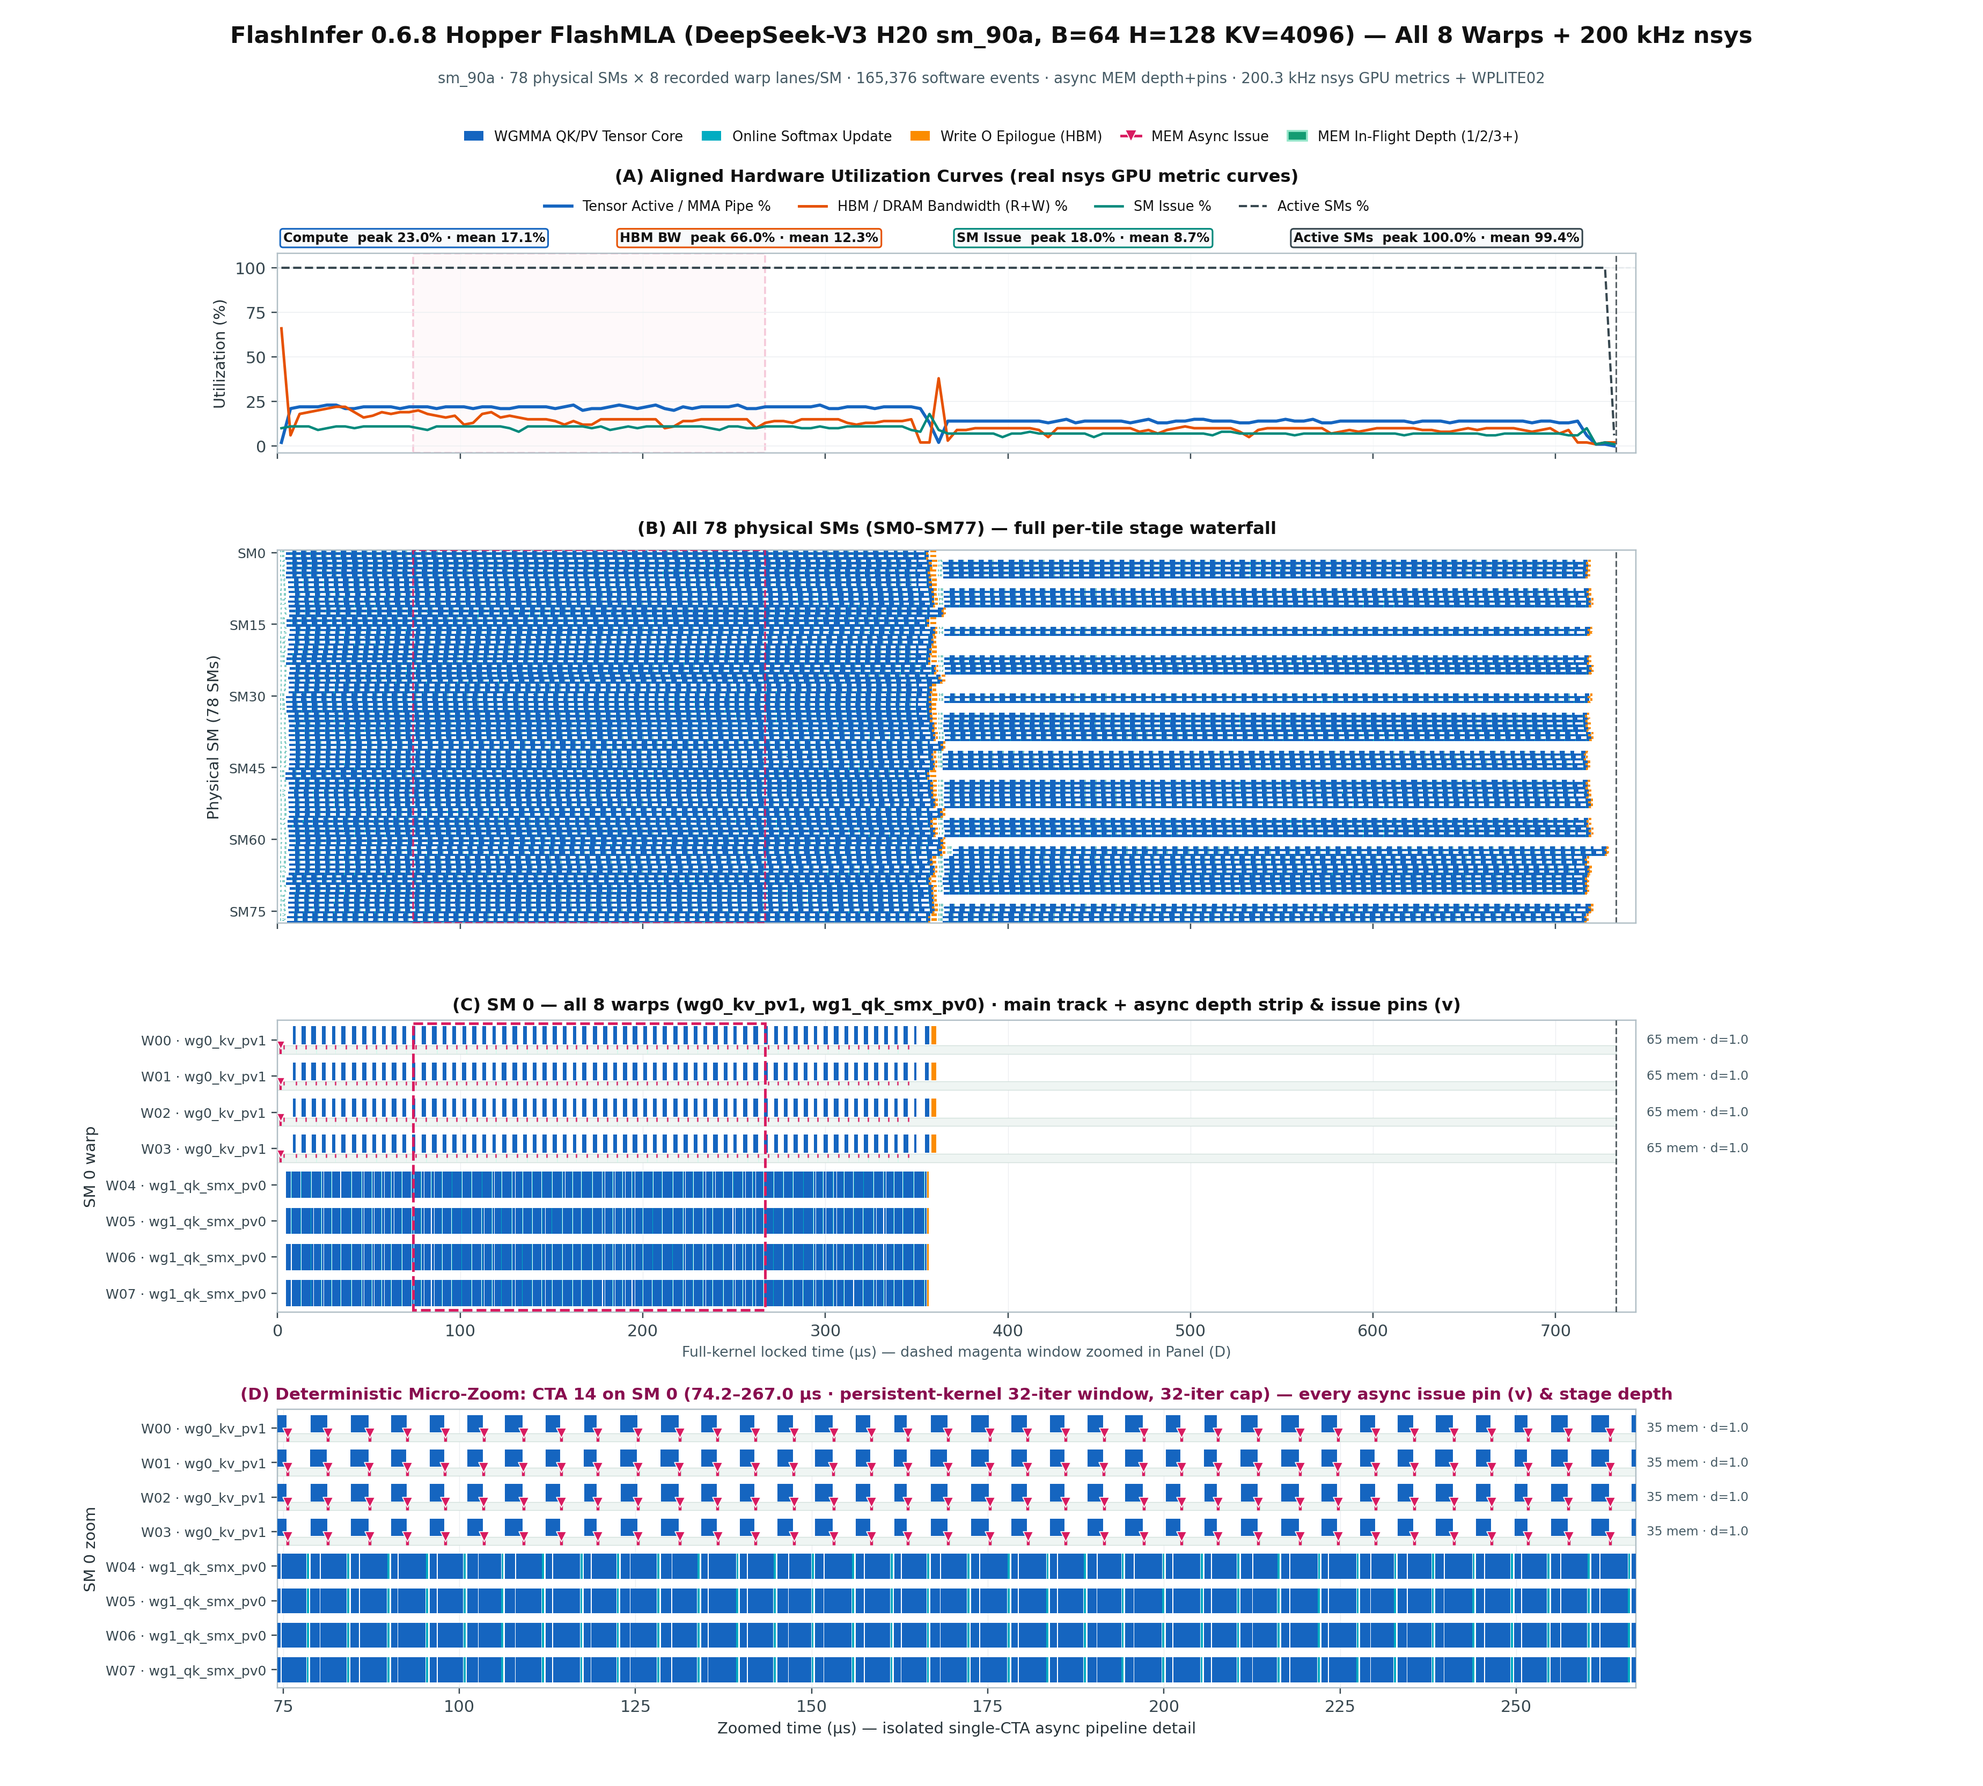
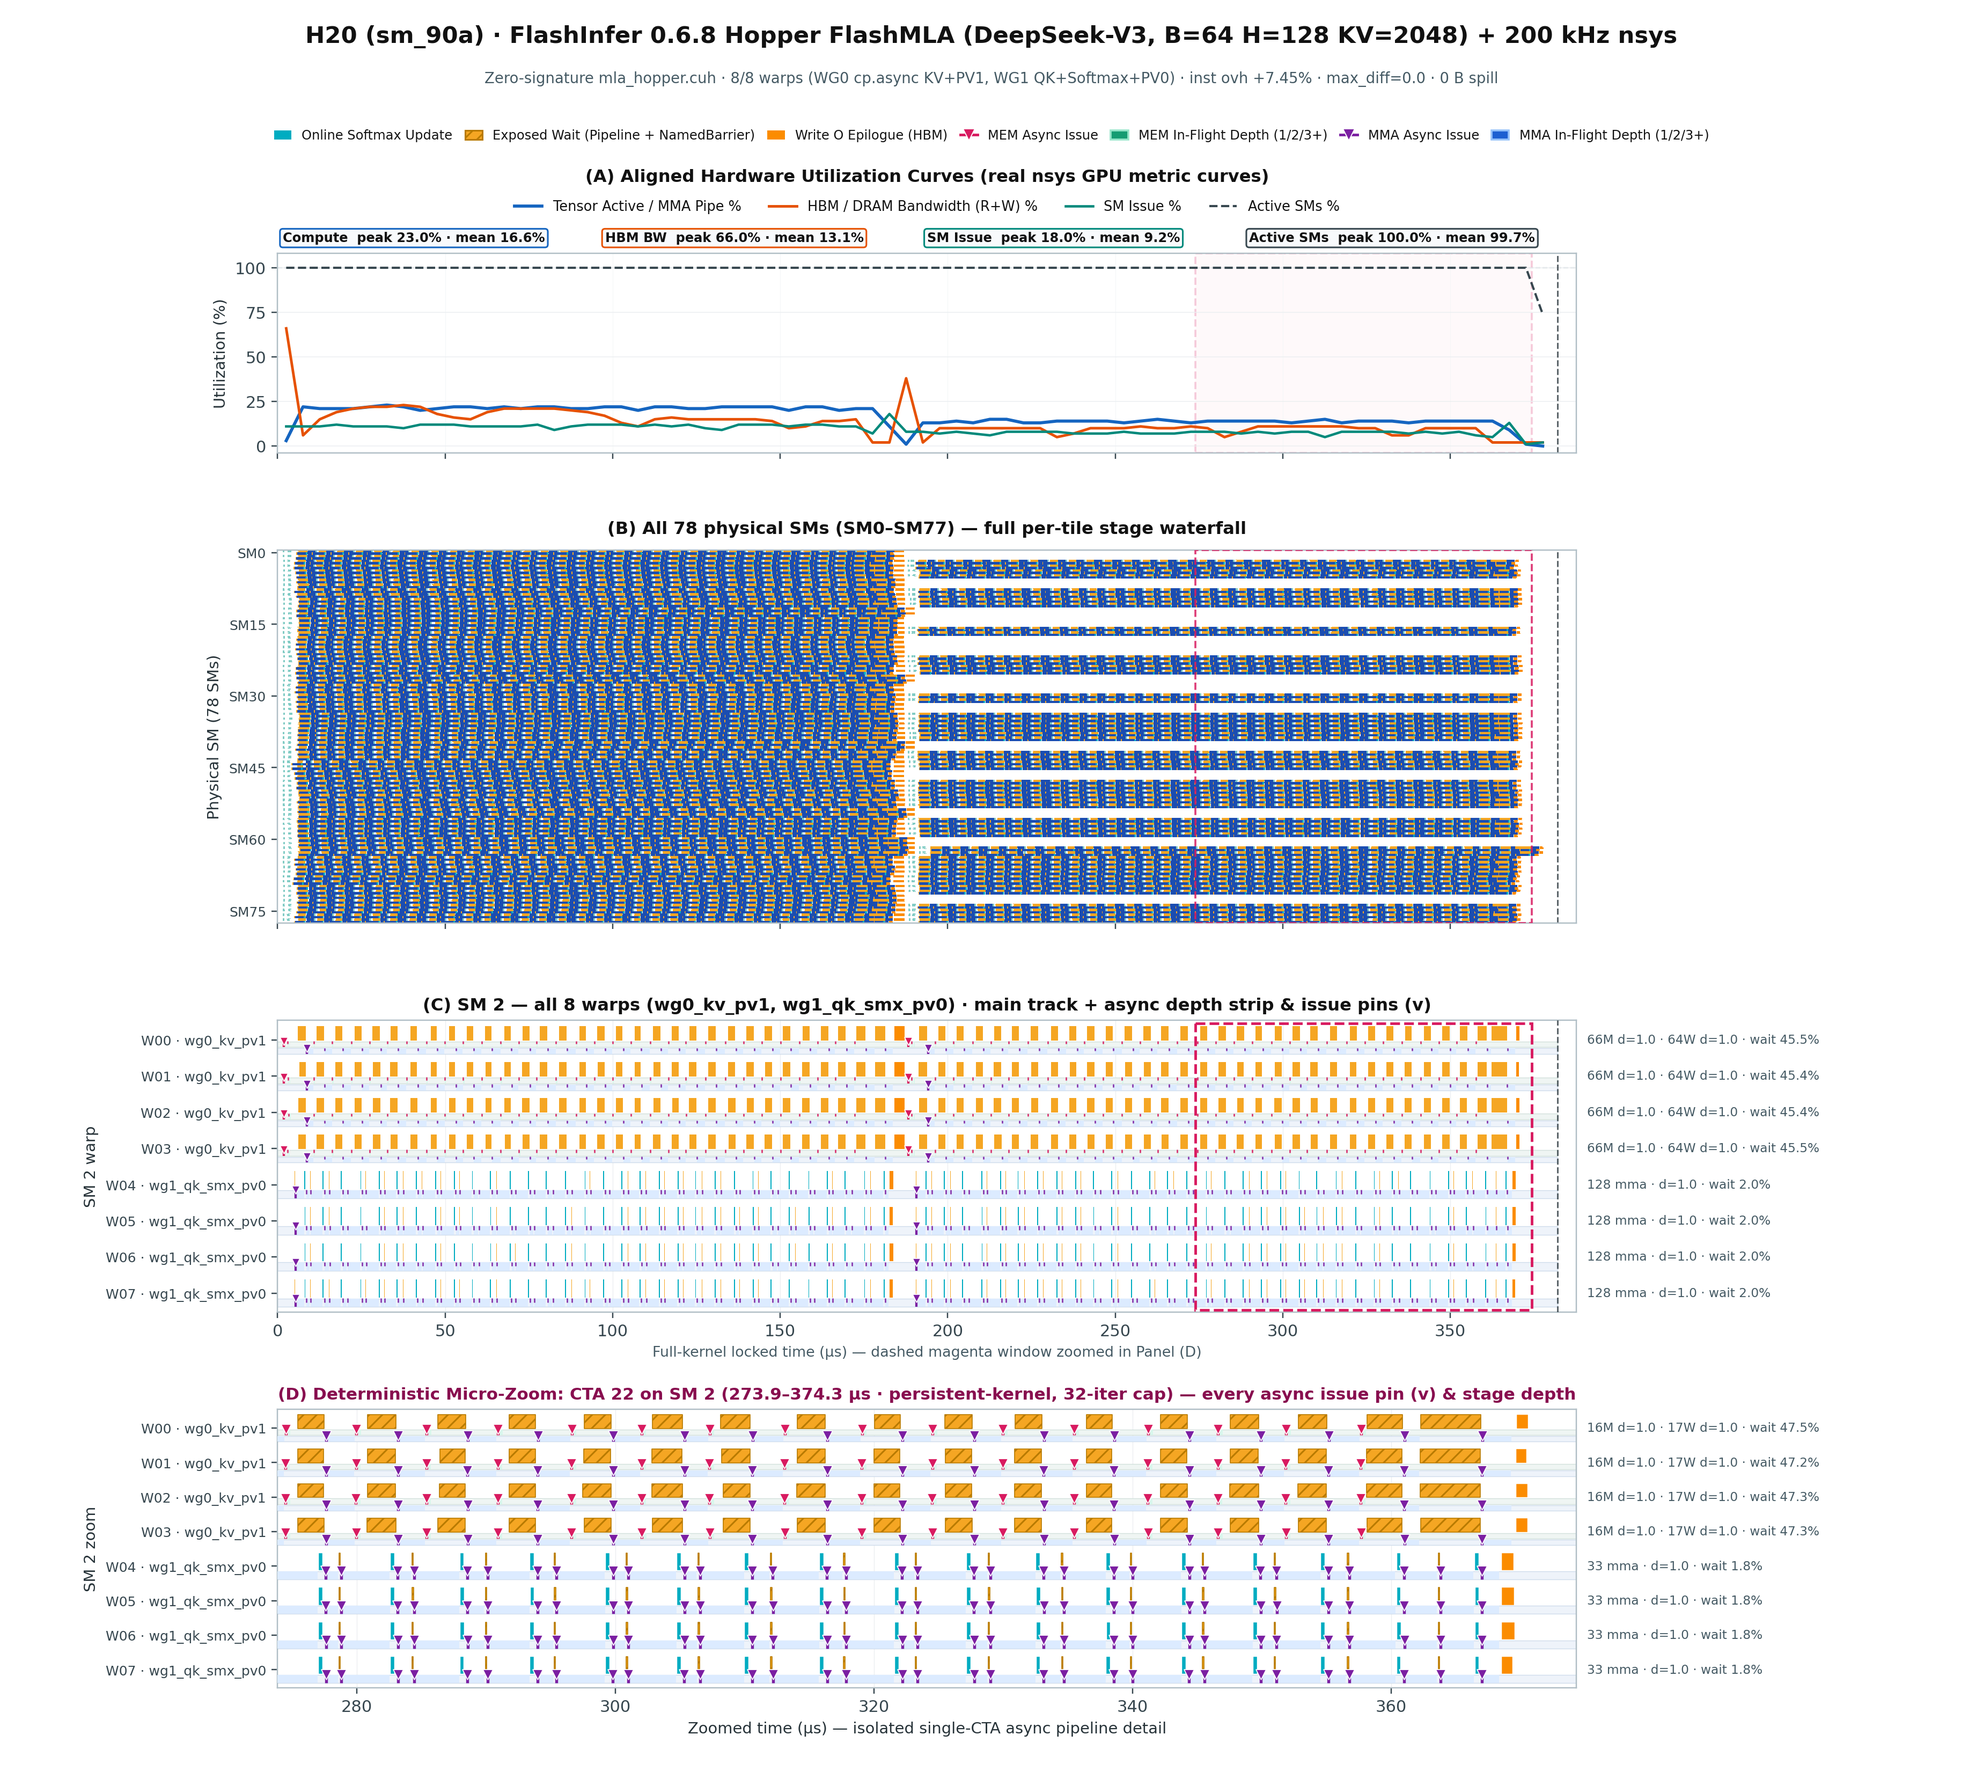
fix(viz,docs): prefer busiest SM on persistent kernels, set 28px micro-zoom trigger, and upgrade FlashMLA README figure to 2-wave SM2 + Exposed Wait 4-panel PNG

diff --git a/weaveprof/viz.py b/weaveprof/viz.py
@@ -944,9 +944,9 @@ def _pick_micro_zoom_window(
                 out.append(t)
         return out
 
-    # Step 1: Deterministic density trigger (`delta_px < 12 px` on ~2400 px plot width)
+    # Step 1: Deterministic density trigger (`delta_px < 28 px` on ~2400 px plot width)
     # Check both async issue spacing AND main-track stage spacing so multi-stage loops
-    # (e.g. FlashMLA QK/Softmax/PV) trigger micro-zoom whenever per-stage bars get < 12 px wide.
+    # (e.g. FlashMLA QK/Softmax/PV) trigger micro-zoom whenever per-stage bars get crowded.
     def _med_gap_px(ts_by_warp: Mapping[int, Sequence[float]]) -> float:
         gs: List[float] = []
         for _w, ts_l in ts_by_warp.items():
@@ -970,7 +970,7 @@ def _pick_micro_zoom_window(
     async_gaps.sort()
     med_gap = async_gaps[len(async_gaps) // 2] if async_gaps else t_max
     delta_px = min(_med_gap_px(all_issue_ts_by_warp), _med_gap_px(all_main_ts_by_warp))
-    if zoom_cta is None and delta_px >= 12.0:
+    if zoom_cta is None and delta_px >= 28.0:
         return None
 
     # Deduplicate per-CTA issue timestamps across one representative warp to count true iterations
@@ -1480,15 +1480,16 @@ def render_swhw_overview_png(
     if focus_sm is not None and focus_sm in sm_roles:
         rep_sm = int(focus_sm)
     elif sms:
-        # Prefer an SM that ran the maximum wave count (distinct CTAs) so partial-wave
-        # tail-idle SMs (e.g. SM 0 in a 78+50 two-wave launch) don't hide Wave 2 in Panel (C).
+        # Prefer an SM with the highest wave/CTA count and highest work/event count so
+        # partial-wave tail-idle SMs (both multi-CTA and persistent-kernel tail-idle SM 0)
+        # don't hide active waves or prevent Panel (D) micro-zoom.
         sm_ctas: Dict[int, set[int]] = defaultdict(set)
         sm_ev_cnt: Dict[int, int] = defaultdict(int)
         for sp in sw_spans:
             s_i = int(sp["sm"])
             sm_ctas[s_i].add(int(sp["cta"]))
             sm_ev_cnt[s_i] += 1
-        rep_sm = max(sms, key=lambda s: (len(sm_ctas.get(s, ())), len(sm_roles.get(s, ())), sm_ev_cnt.get(s, 0) > 0, -s))
+        rep_sm = max(sms, key=lambda s: (len(sm_ctas.get(s, ())), len(sm_roles.get(s, ())), sm_ev_cnt.get(s, 0), -s))
     else:
         rep_sm = 0
 

diff --git a/SKILL.md b/SKILL.md
@@ -32,7 +32,7 @@ WeaveProfiler couples two modules in an iterative verification loop without modi
         - **Product-Level Hard Gate (`validate_trace_product`)**: Rejects single-CTA truncation (`ctas_observed == grid_ctas` across physical SMs/CUs), out-of-range warp IDs (`0 <= warp < warps_per_cta`), collapsed stages missing `load`/`mma`/`softmax`/`epilogue`, missing cross-warp `slot` handoffs on async `mbarrier` pipelines, or missing hardware `Compute Util (%)`, `Memory Util (%)`, and `Active SM/CU (%)` curves.
      4. *Overhead Check (`overhead`)*: Warm-launch median runtime change stays within `|t_inst / t_base - 1| <= limit` (default `0.10`, i.e., `±10%`; negative speedups beyond `-limit` also fail as scheduling perturbation).
    - **Structured Handoff & PNG-First Visual Delivery (`<run>/overview.png`, `<run>/feedback.json`, `<run>/verify.json`, `<run>/seal.json`)**:
-     - By default, `run_megakernel_audit` (`render_overview_png=True`, `write_perfetto_gz=False`) and `wp.profile` auto-render a single-run **4-panel SW+HW overview PNG (`overview.png`, ~250–600 KB, ~1.4–2.5 s locally)** via `weaveprof/viz.py` on one locked microsecond axis across **both NVIDIA (`SM`/`warp`, `nsys`) and AMD MI308X (`CU`/`wave`, `rocprofiler-sdk` / `rocprof-sys`)**: **(A)** same-run real hardware utilization curves (`Compute / MFMA / Tensor Active`, `HBM Read+Write BW` summed across the shared DRAM bus, separate full-duplex `NVLink TX` and `NVLink RX` curves — NEVER summed or merged — or `xGMI` on AMD, optional `Inter-Node RDMA NIC` curve or honest HCA unavailable footnote, `Active SMs / CUs`), **(B)** all physical SMs/CUs dense multi-stage / dual-fabric waterfall, **(C)** single-SM / single-CU per-warp/wave timeline (upper main execution track + 0/1/2 on-demand thin async engine depth sub-tracks for `MEM` green / `MMA` blue with fixed-pixel `▼` issue pins), and **(D)** automatic deterministic single-CTA micro-zoom when full-kernel spacing is denser than `12 px` (`--zoom-cta` / `--zoom-window` overrides supported).
+     - By default, `run_megakernel_audit` (`render_overview_png=True`, `write_perfetto_gz=False`) and `wp.profile` auto-render a single-run **4-panel SW+HW overview PNG (`overview.png`, ~250–600 KB, ~1.4–2.5 s locally)** via `weaveprof/viz.py` on one locked microsecond axis across **both NVIDIA (`SM`/`warp`, `nsys`) and AMD MI308X (`CU`/`wave`, `rocprofiler-sdk` / `rocprof-sys`)**: **(A)** same-run real hardware utilization curves (`Compute / MFMA / Tensor Active`, `HBM Read+Write BW` summed across the shared DRAM bus, separate full-duplex `NVLink TX` and `NVLink RX` curves — NEVER summed or merged — or `xGMI` on AMD, optional `Inter-Node RDMA NIC` curve or honest HCA unavailable footnote, `Active SMs / CUs`), **(B)** all physical SMs/CUs dense multi-stage / dual-fabric waterfall, **(C)** single-SM / single-CU per-warp/wave timeline (upper main execution track + 0/1/2 on-demand thin async engine depth sub-tracks for `MEM` green / `MMA` blue with fixed-pixel `▼` issue pins), and **(D)** automatic deterministic single-CTA micro-zoom when full-kernel spacing is denser than `28 px` (`--zoom-cta` / `--zoom-window` overrides supported).
      - **Rich Stage Naming & Intra-Node vs Inter-Node Dual-Color Fabrics**: Every probe in `<run>/probe.json` should carry a descriptive algorithmic/fabric `id`, human-readable `label` (e.g., `"KV Tile Load (TMA)"`, `"QK^T Score MMA"`, `"Online Softmax (exp/rescale)"`, `"GEMM1 (FC1+SwiGLU)"`, `"GEMM2 (FC2)"`), and `fabric` scope (`on_chip`, `intra_node_nvlink`, `intra_node_xgmi`, `inter_node_rdma`, `inter_node_ib`) — never lazy bare `"load"` / `"mma"` labels. On multi-node traces (e.g., 2-node EP16 MI308X or H20/B300), `weaveprof/viz.py` automatically separates **Inter-Node RDMA / IB** (warm crimson `#D62728` / amber `#F28E2B`) from **Intra-Node xGMI / NVLink** (cool teal `#009FB7` / royal blue `#2563EB`) with side-by-side Panel B & C fabric legends and `>= 2 px` crisp rendering for streaming Combine/Reduce slices.
      - No `.perfetto.json.gz` is written by default (pass `write_perfetto_gz=True` only when explicitly requesting raw Perfetto JSON export, or render offline via `weaveprof render <trace> -o overview.png`).
      - Alongside `overview.png`, `run_megakernel_audit` returns a `<2 KB` structured causal JSON report containing `hw_quartiles` (`[Q1..Q4]`), `stage_summary`, `megakernel_skew`, `causal_opportunities`, and `fidelity_gates` so both multimodal and text-only agents can diagnose bottlenecks directly.

diff --git a/README_EN.md b/README_EN.md
@@ -27,7 +27,7 @@ Previous options force a trade-off:
 
 ## 2. How to Read the Four-Panel Aligned View
 
-WeaveProfiler defaults to PNG-only delivery (`overview.png`) instead of heavy `.perfetto.json.gz` dumps. Panels (A)–(C) share one locked microsecond (`µs`) axis, and Panel (D) automatically appends when full-kernel event spacing is denser than `12 px`:
+WeaveProfiler defaults to PNG-only delivery (`overview.png`) instead of heavy `.perfetto.json.gz` dumps. Panels (A)–(C) share one locked microsecond (`µs`) axis, and Panel (D) automatically appends when full-kernel event spacing is denser than `28 px`:
 
 - **(A) Hardware Utilization Curves**: Same-run chip-wide metrics (0–100%, 200 kHz `nsys` on NVIDIA, `rocprof-sys` on AMD): Compute (Tensor / MFMA), summed HBM Read+Write bandwidth, separate full-duplex interconnect (`NVLink TX` and `NVLink RX` are never summed or merged; `xGMI` on AMD), optional inter-node RDMA, and active SM/CU %. **Fails closed if real same-run hardware curves are missing.**
 - **(B) All-SM / All-CU Waterfall**: Every physical core on the vertical axis, exposing wave steps, tail stragglers, and load skew.
@@ -88,11 +88,11 @@ Closed-loop profiling on unmodified open-source libraries at production long-seq
 | Open-Source Kernel | Frontend & Shape (H20 `sm_90a`) | Warp Coverage | Steady-State Overhead & Highlights |
 | --- | --- | :---: | --- |
 | **FlashInfer 0.6.8 Hopper FA3** (3 headers) | CUDA C++, `B=5, H=16, S=4096, D=128` | 12 / 12 | **`+0.13%`** (`2,629 → 2,633 µs`), SW–HW delta `0.08%`; Panel (D) exposes `W00` TMA prefetch and antiphase ping-pong scheduling across `math_wg1`/`math_wg2` |
-| **FlashInfer 0.6.8 Hopper FlashMLA** (`mla_hopper.cuh`) | CUDA C++, `B=64, H=128, KV=4096` | 8 / 8 | **`+6.23%`** (`687 → 729 µs`), **`0 B` spill**, SW–HW delta `0.24%`; locks the `78 + 50` two-wave step and `WG0`/`WG1` split |
+| **FlashInfer 0.6.8 Hopper FlashMLA** (`mla_hopper.cuh`) | CUDA C++, `B=64, H=128, KV=2048` | 8 / 8 | **`+7.45%`** (`356 → 383 µs`), **`0 B` spill**, SW–HW delta `0.50%`; auto-selects full 2-wave `SM 2`, and Panel (D) locks `WG0`'s `47.3%` `kOScaleReady` wait directly onto `WG1`'s `QK + Softmax` |
 | **vLLM FLA FlashKDA** (`chunk_delta_h.py`) | Triton 3.6 PTX Auto-Async, `B=1, T=8192, H=64, D=128` | 4 / 4 | Round 1 dual-async `+18.77%` rejected → closed-loop coarsened to **`+4.08%`** (`544 → 566 µs`), **`0` spill**, SW–HW delta `0.21%`; Panel (D) exposes 5-stage `cp.async` ramps and `Exposed Wait` |
 
 ![FlashInfer 0.6.8 Hopper FA3 H20 S=4096 Four-Panel Aligned View](docs/images/case_h20_flashinfer_fa3.png)
-![FlashInfer 0.6.8 Hopper FlashMLA H20 KV=4096 Four-Panel Aligned View](docs/images/case_h20_flashmla.png)
+![FlashInfer 0.6.8 Hopper FlashMLA H20 KV=2048 Four-Panel Aligned View](docs/images/case_h20_flashmla.png)
 ![vLLM FLA FlashKDA H20 T=8192 Triton PTX Auto-Async Four-Panel Aligned View](docs/images/case_h20_flashkda.png)
 
 ---

diff --git a/README.md b/README.md
@@ -27,7 +27,7 @@ WeaveProfiler 把**自动低开销核内插桩**和**同次 200 kHz 硬件利用
 
 ## 2. 四联对齐图读法
 
-默认直接输出静态 PNG（`overview.png`），不落盘大体积 `.perfetto.json.gz`。前 3 栏共享同一微秒（`µs`）横轴，当全核事件过密（相邻间距 `< 12 px`）时自动追加第 4 栏：
+默认直接输出静态 PNG（`overview.png`），不落盘大体积 `.perfetto.json.gz`。前 3 栏共享同一微秒（`µs`）横轴，当全核事件过密（相邻间距 `< 28 px`）时自动追加第 4 栏：
 
 - **(A) 硬件利用率曲线**：同次采集的整卡指标（0–100%，NVIDIA 为 200 kHz `nsys`，AMD 为 `rocprof-sys`），含计算流水线（Tensor / MFMA）、HBM 读+写总带宽、独立绘制的全双工互联（`NVLink TX` 与 `NVLink RX` 绝不合并；AMD 为 `xGMI`）、可选跨机 RDMA 以及活跃 SM/CU 占比；**缺少同次真实硬件曲线时默认失败退出（fail-closed）**。
 - **(B) 全卡物理 SM / CU 瀑布**：纵轴列出全部物理核心，直观暴露波次台阶、尾波拖尾与负载倾斜。
@@ -88,11 +88,11 @@ WeaveProfiler 把**自动低开销核内插桩**和**同次 200 kHz 硬件利用
 | 开源算子 | 前端与规模（H20 `sm_90a`） | 物理 Warp 覆盖 | 稳态相对开销与实测结果 |
 | --- | --- | :---: | --- |
 | **FlashInfer 0.6.8 Hopper FA3**（跨 3 头文件） | CUDA C++，`B=5, H=16, S=4096, D=128` | 12 / 12 | **`+0.13%`**（`2,629 → 2,633 µs`），软硬边界差 `0.08%`，Panel (D) 清晰呈现 `W00` TMA 预取与双计算组反相 Ping-Pong 调度 |
-| **FlashInfer 0.6.8 Hopper FlashMLA**（`mla_hopper.cuh`） | CUDA C++，`B=64, H=128, KV=4096` | 8 / 8 | **`+6.23%`**（`687 → 729 µs`），**`0 B` spill**，软硬边界差 `0.24%`，精准对齐 `78 + 50` 双波次掉谷与 `WG0`/`WG1` 分工 |
+| **FlashInfer 0.6.8 Hopper FlashMLA**（`mla_hopper.cuh`） | CUDA C++，`B=64, H=128, KV=2048` | 8 / 8 | **`+7.45%`**（`356 → 383 µs`），**`0 B` spill**，软硬边界差 `0.50%`；自动选取满载双波次 `SM 2`，Panel (D) 直接定位 `WG0` 在 `kOScaleReady` 上 `47.3%` 的等待对齐 `WG1` 的 `QK + Softmax` |
 | **vLLM FLA FlashKDA**（`chunk_delta_h.py`） | Triton 3.6 PTX 自动异步，`B=1, T=8192, H=64, D=128` | 4 / 4 | 第 1 轮双异步 `+18.77%` 被拦截 → 闭环粗化后 **`+4.08%`**（`544 → 566 µs`），**`0` spill**，软硬边界差 `0.21%`，Panel (D) 完整展开每轮 5 级 `cp.async` 深度与 `Exposed Wait` |
 
 ![FlashInfer 0.6.8 Hopper FA3 H20 S=4096 四联对齐图](docs/images/case_h20_flashinfer_fa3.png)
-![FlashInfer 0.6.8 Hopper FlashMLA H20 KV=4096 四联对齐图](docs/images/case_h20_flashmla.png)
+![FlashInfer 0.6.8 Hopper FlashMLA H20 KV=2048 四联对齐图](docs/images/case_h20_flashmla.png)
 ![vLLM FLA FlashKDA H20 T=8192 Triton PTX 自动异步四联对齐图](docs/images/case_h20_flashkda.png)
 
 ---
